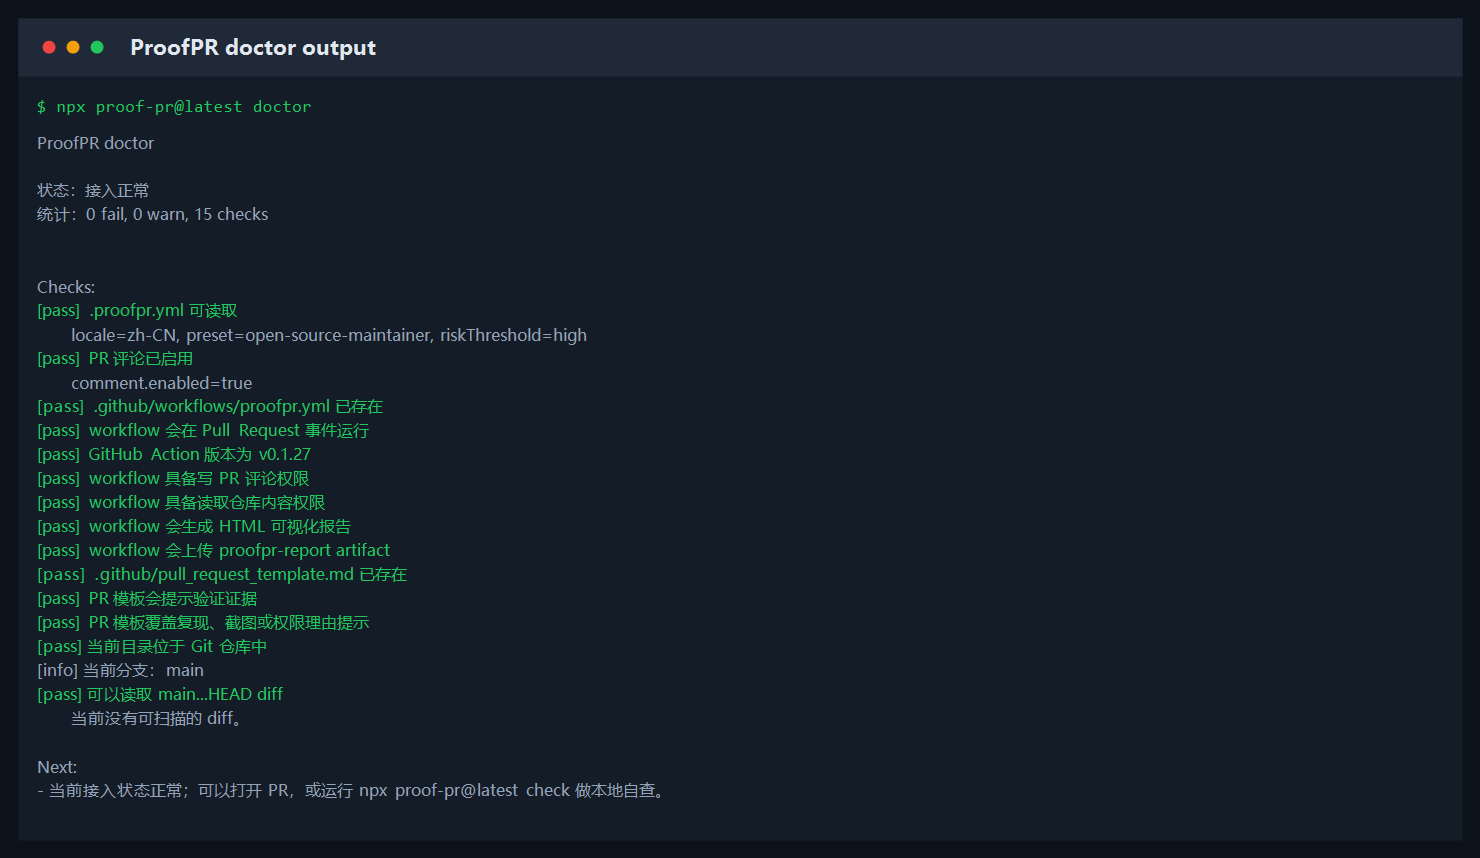
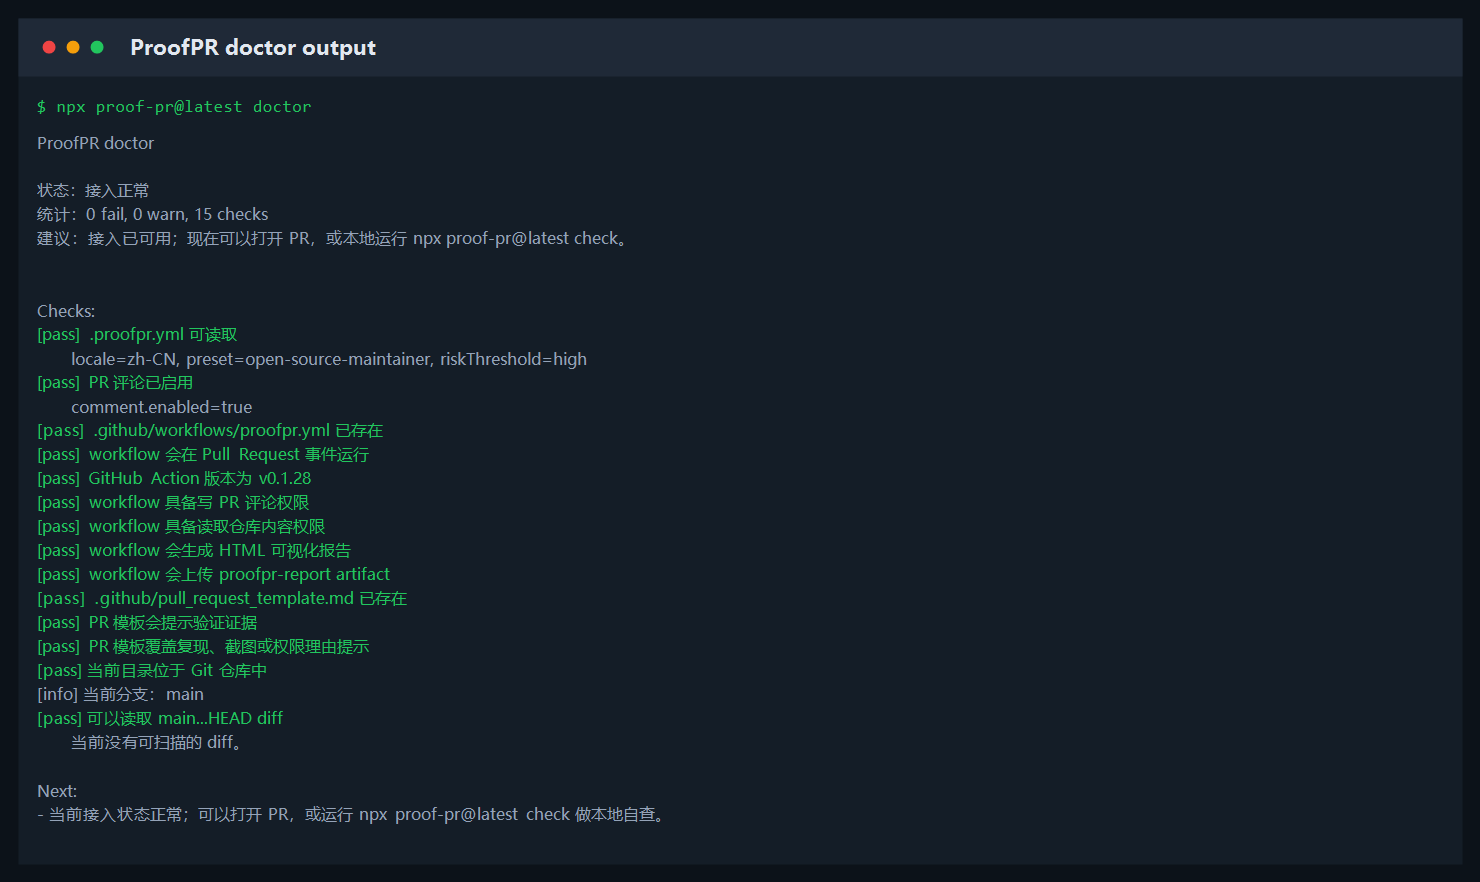
feat: clarify doctor next step

diff --git a/packages/cli/src/index.ts b/packages/cli/src/index.ts
@@ -23,7 +23,7 @@ import {
 } from "@proof-pr/core";
 
 const execFileAsync = promisify(execFile);
-const CLI_VERSION = "0.1.27";
+const CLI_VERSION = "0.1.28";
 
 type OutputFormat = "json" | "markdown" | "sarif" | "html";
 type FailLevel = RiskLevel | "never";
@@ -910,6 +910,7 @@ function renderDoctorReport(report: DoctorReport): string {
   const failCount = report.checks.filter((check) => check.level === "fail").length;
   const warnCount = report.checks.filter((check) => check.level === "warn").length;
   const status = failCount > 0 ? "需要先修复" : warnCount > 0 ? "基本可用，但建议优化" : "接入正常";
+  const recommendation = renderDoctorRecommendation(report, failCount, warnCount);
   const fixes =
     report.fixes.length > 0
       ? `\nAuto-fix:\n${report.fixes.map((fix) => `- ${fix}`).join("\n")}\n`
@@ -926,6 +927,7 @@ function renderDoctorReport(report: DoctorReport): string {
 
 状态：${status}
 统计：${failCount} fail, ${warnCount} warn, ${report.checks.length} checks
+建议：${recommendation}
 ${fixes}
 
 Checks:
@@ -934,6 +936,22 @@ ${checks}
 Next:
 ${nextSteps}
 `;
+}
+
+function renderDoctorRecommendation(report: DoctorReport, failCount: number, warnCount: number): string {
+  if (report.fixes.length > 0) {
+    return "已自动处理可安全修复的接入文件；下一步运行 npx proof-pr@latest doctor 确认。";
+  }
+
+  if (failCount > 0) {
+    return "先运行 npx proof-pr@latest doctor --fix；如果仍有 fail，再按 Next steps 处理。";
+  }
+
+  if (warnCount > 0) {
+    return "可以先打开 PR 试用；想补齐接入细节时运行 npx proof-pr@latest doctor --fix。";
+  }
+
+  return "接入已可用；现在可以打开 PR，或本地运行 npx proof-pr@latest check。";
 }
 
 function renderInitReport(results: InitFileResult[], options: InitCommandOptions): string {

diff --git a/docs/release.md b/docs/release.md
@@ -1,6 +1,6 @@
 # 发布流程
 
-当前最新公开版本是 `0.1.27`。
+当前最新公开版本是 `0.1.28`。
 
 ## 发布前检查
 
@@ -52,8 +52,8 @@ npm 官方要求 trusted publishing 使用 npm 11.5.1+ 和 Node 22.14+；`npm tr
 确认 `pnpm release:check` 通过后：
 
 ```bash
-git tag v0.1.27
-git push origin v0.1.27
+git tag v0.1.28
+git push origin v0.1.28
 ```
 
 发布完成后需要检查：
@@ -66,9 +66,17 @@ npx proof-pr@latest --version
 当前验证结果：
 
 ```txt
-npm view proof-pr version -> 0.1.27
-npx proof-pr@latest --version -> 0.1.27
+npm view proof-pr version -> 0.1.28
+npx proof-pr@latest --version -> 0.1.28
 ```
+
+## `v0.1.28` 发布状态
+
+`v0.1.28` 是 doctor 引导增强版，重点包括：
+
+- `proof-pr doctor` 报告顶部新增一句话建议，直接告诉用户下一步是打开 PR、运行 `check`，还是先用 `doctor --fix`。
+- README、npm 包 README、快速开始、命令文档和 doctor 截图同步更新。
+- 保持默认使用路径不变：`init`、`check`、`request` 仍是主入口。
 
 ## `v0.1.27` 发布状态
 
@@ -194,7 +202,7 @@ npx proof-pr@latest --version -> 0.1.27
 
 ## 版本说明
 
-`0.1.8` 已经发布到 npm，但 CLI `--version` 仍显示旧版本。`0.1.27` 继承了后续修复，并且是当前推荐使用版本。
+`0.1.8` 已经发布到 npm，但 CLI `--version` 仍显示旧版本。`0.1.28` 继承了后续修复，并且是当前推荐使用版本。
 
 ## 发布后动作
 

diff --git a/docs/roadmap.md b/docs/roadmap.md
@@ -31,7 +31,7 @@ ProofPR 的长期定位不是“又一个代码扫描器”，而是 **AI 时代
    代码侧材料已准备好，下一步需要仓库所有者在 GitHub 网页上确认发布。
 
 2. 发布链路稳定性
-   Trusted Publisher 已配置并通过 `v0.1.21` 到 `v0.1.27` 验证。后续重点是保持 release workflow 简单可审计，避免回退到本地 token 发布。
+   Trusted Publisher 已配置并通过 `v0.1.21` 到 `v0.1.28` 验证。后续重点是保持 release workflow 简单可审计，避免回退到本地 token 发布。
 
 3. 真实截图刷新
    用供应链增强规则重新跑一个 demo PR，补充新版依赖风险、HTML 报告和 benchmark 效果图。
@@ -62,4 +62,4 @@ ProofPR 的长期定位不是“又一个代码扫描器”，而是 **AI 时代
 
 ## 下一版优先级
 
-下一步优先用 `0.1.27` 的短补证请求、简化入口和自动自检修复更新真实 demo PR 截图和 Marketplace 页面，并继续准备 GitHub Marketplace 上架材料。
+下一步优先用 `0.1.28` 的短补证请求、简化入口和自动自检修复更新真实 demo PR 截图和 Marketplace 页面，并继续准备 GitHub Marketplace 上架材料。

diff --git a/docs/commands.md b/docs/commands.md
@@ -118,10 +118,12 @@ npx proof-pr@latest doctor
 - `.github/workflows/proofpr.yml` 是否存在。
 - `.github/pull_request_template.md` 是否存在，以及是否提示验证、复现、截图或权限理由。
 - workflow 是否监听 `pull_request`。
-- workflow 是否使用当前推荐的 `linsk27/proof-pr@v0.1.27`。
+- workflow 是否使用当前推荐的 `linsk27/proof-pr@v0.1.28`。
 - 是否具备 `pull-requests: write` 和 `contents: read` 权限。
 - 是否启用了 `html-output` 和 `actions/upload-artifact`，方便下载 HTML 可视化报告。
 - 当前目录是否在 Git 仓库里，以及自动识别出的 base...HEAD diff 是否可读。
+
+报告顶部会给一句话建议：接入正常时提示打开 PR 或运行 `check`，存在问题时提示先运行 `doctor --fix` 或按 Next steps 处理。
 
 `doctor` 默认会像 `check` 一样自动选择 `origin/main`、`origin/master`、`upstream/main`、`upstream/master`、`main` 或 `master`。如果你的主分支不是这些名字，可以这样指定：
 

diff --git a/docs/getting-started.md b/docs/getting-started.md
@@ -74,7 +74,7 @@ jobs:
     runs-on: ubuntu-latest
     steps:
       - uses: actions/checkout@v4
-      - uses: linsk27/proof-pr@v0.1.27
+      - uses: linsk27/proof-pr@v0.1.28
         with:
           fail-on: high
           comment: "true"
@@ -145,7 +145,7 @@ npx proof-pr@latest request
 
 `check` 会自动选择常见主分支作为 base，并纳入已提交分支 diff、staged、unstaged 和未跟踪新文件。
 
-如果第一行输出 `0.1.27`，说明你正在使用当前最新发布版。
+如果第一行输出 `0.1.28`，说明你正在使用当前最新发布版。
 
 也可以全局安装：
 
@@ -179,6 +179,8 @@ proof-pr doctor --fix
 ```
 
 它只会创建或刷新 ProofPR 自己的接入文件：`.proofpr.yml`、`.github/workflows/proofpr.yml` 和 PR 模板，不会修改业务代码。
+
+`doctor` 报告顶部会直接给一句话建议，告诉你下一步是打开 PR、运行 `check`，还是用 `doctor --fix` 修复接入。
 
 已接入仓库但缺少 PR 模板：
 

diff --git a/docs/README.md b/docs/README.md
@@ -17,8 +17,8 @@
 
 ## 当前发布
 
-- GitHub Release：[`v0.1.27`](https://github.com/linsk27/proof-pr/releases/tag/v0.1.27)
-- npm：[`proof-pr@0.1.27`](https://www.npmjs.com/package/proof-pr)
+- GitHub Release：[`v0.1.28`](https://github.com/linsk27/proof-pr/releases/tag/v0.1.28)
+- npm：[`proof-pr@0.1.28`](https://www.npmjs.com/package/proof-pr)
 - 核心能力：判断 PR 是否值得 review、指出缺失证据、标出高风险改动区域，并生成维护者行动清单。
 - 辅助能力：HTML 报告、GitHub annotations、SARIF、benchmark、真实案例库和 npm Trusted Publishing 发布流程。
 
@@ -29,7 +29,7 @@ npm view proof-pr version
 npx proof-pr@latest --version
 ```
 
-当前都应输出 `0.1.27`。
+当前都应输出 `0.1.28`。
 
 不知道怎么开始时：
 

diff --git a/docs/zero-to-one.md b/docs/zero-to-one.md
@@ -149,7 +149,7 @@ npx proof-pr@latest check
 
 `check` 会自动选择常见主分支作为 base，并纳入已提交分支 diff、staged、unstaged 和未跟踪新文件。
 
-第一行当前应输出 `0.1.27`，用于确认 npm latest 已经安装正确。
+第一行当前应输出 `0.1.28`，用于确认 npm latest 已经安装正确。
 
 扫描内置案例：
 
@@ -201,7 +201,7 @@ permissions:
 
 steps:
   - uses: actions/checkout@v4
-  - uses: linsk27/proof-pr@v0.1.27
+  - uses: linsk27/proof-pr@v0.1.28
     with:
       fail-on: high
       comment: "true"

diff --git a/CHANGELOG.md b/CHANGELOG.md
@@ -4,6 +4,12 @@
 
 暂无。
 
+## 0.1.28 - 2026-05-17
+
+- `proof-pr doctor` 报告顶部新增一句话建议，减少用户判断下一步的成本。
+- README、npm 包 README、快速开始、命令文档和 doctor 截图同步说明新的自检输出。
+- 默认使用路径保持简洁：`init`、`check`、`request` 仍是主入口。
+
 ## 0.1.27 - 2026-05-17
 
 - `proof-pr request` 默认输出更短的 PR 评论式补证请求，更适合直接贴给贡献者。

diff --git a/docs/sarif-code-scanning.md b/docs/sarif-code-scanning.md
@@ -59,7 +59,7 @@ jobs:
     runs-on: ubuntu-latest
     steps:
       - uses: actions/checkout@v4
-      - uses: linsk27/proof-pr@v0.1.27
+      - uses: linsk27/proof-pr@v0.1.28
         with:
           fail-on: high
           comment: "true"
